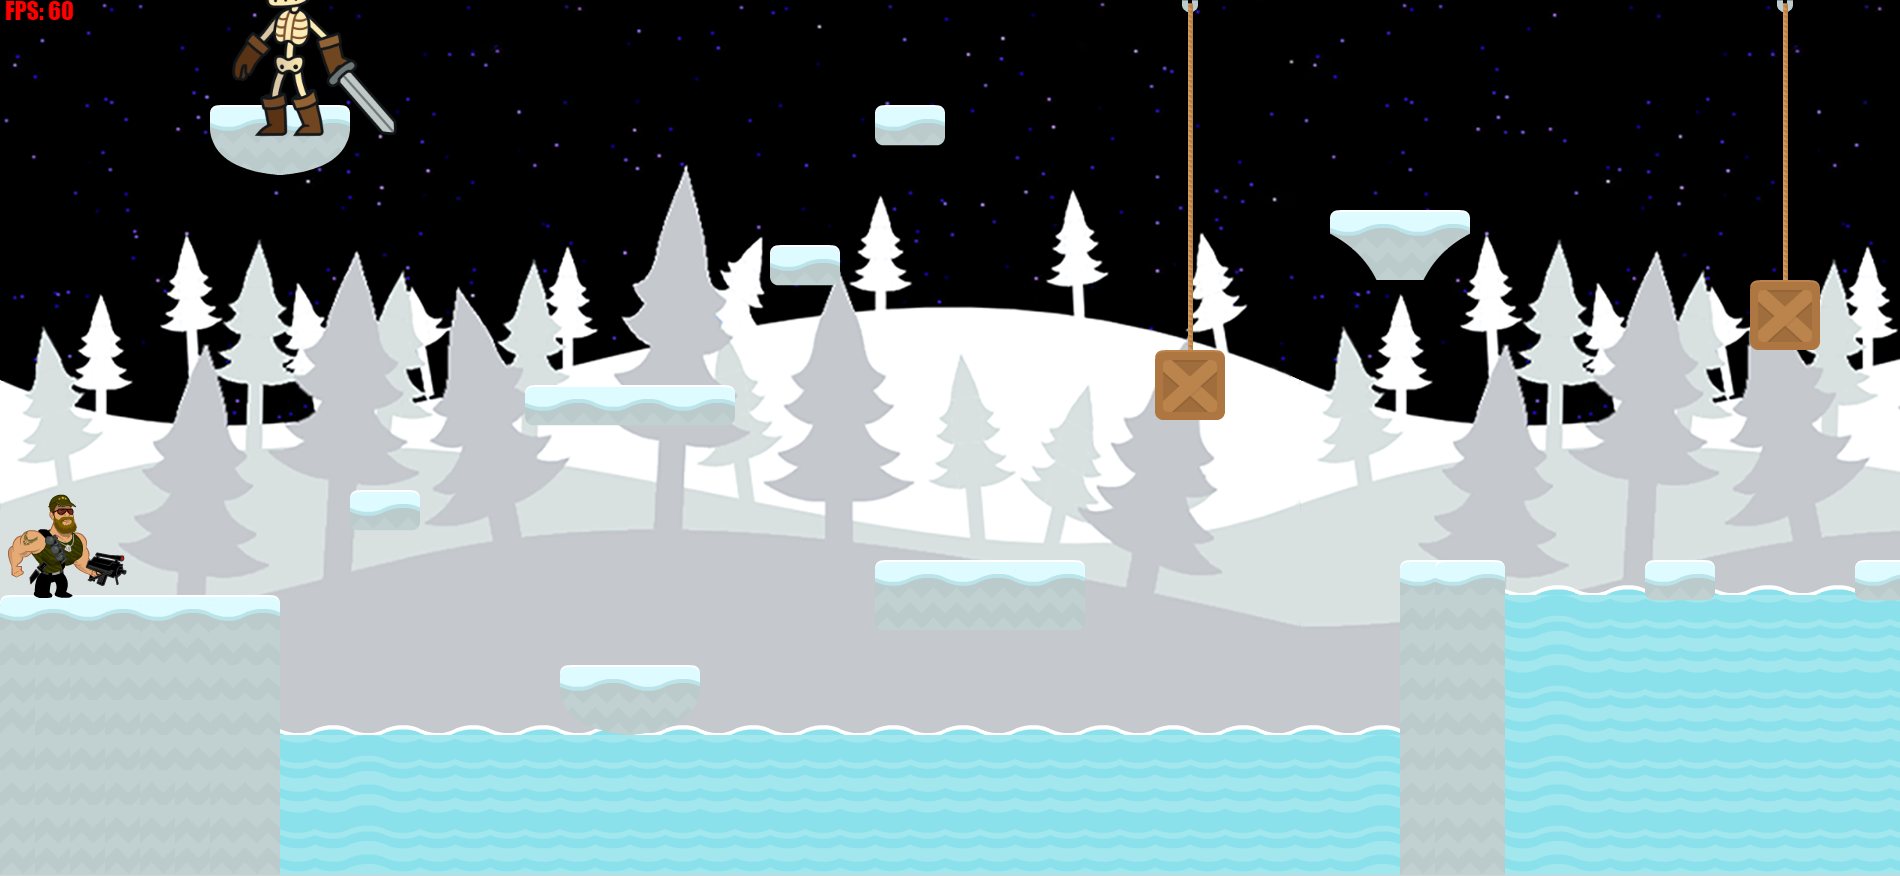
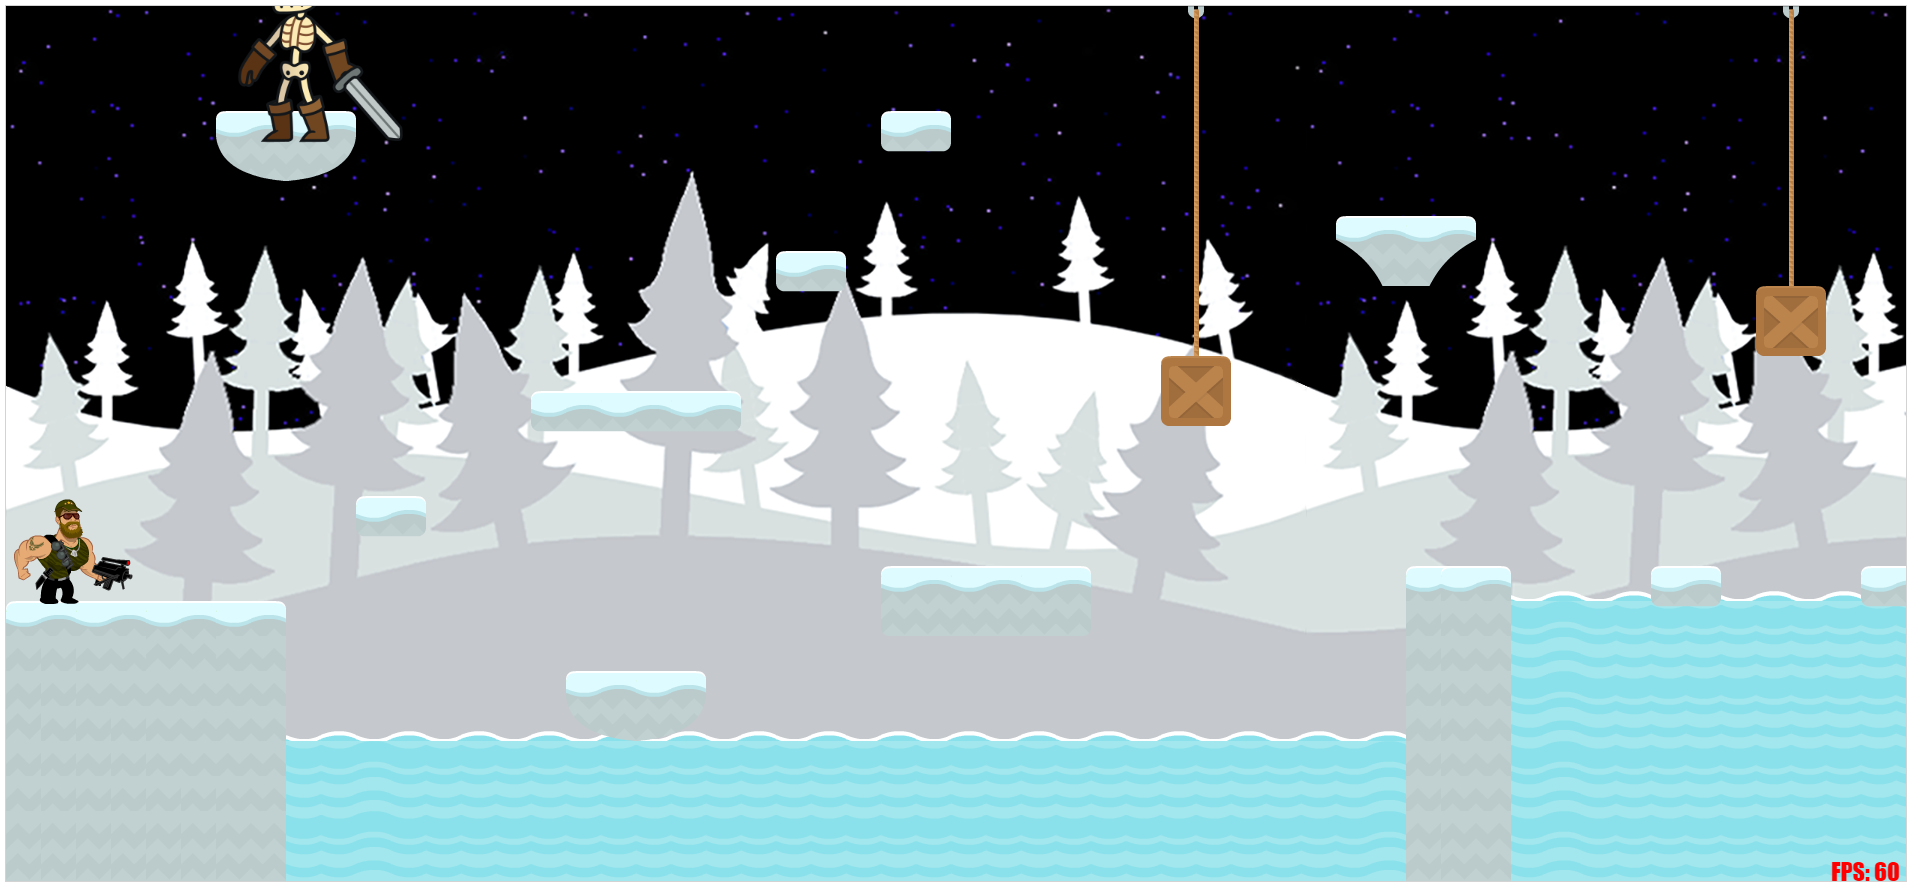
Hud
HP DONE SCORE STRATINFG

diff --git a/main.js b/main.js
@@ -51,6 +51,8 @@ var TILESET_PADDING = level1.tilesets[0].margin;
 var TILESET_SPACING = level1.tilesets[0].spacing;
 var TILESET_COUNT_X = level1.tilesets[0].columns;
 var TILESET_COUNT_Y = level1.tilesets[0].tilecount/TILESET_COUNT_X;
+
+var playerScore = 0;
 						
 var LAYER_COUNT = level1.layers.length;
 var LAYER_BACKGOUND = 0;
@@ -177,7 +179,13 @@ function run()
 		
 	context.fillStyle = "#f00";
 	context.font="24px impact";
-	context.fillText("FPS: " + fps, 5, 20, 100);
+	context.fillText("FPS: " + fps, 1825, 875, 100);
+	
+	context.fillStyle = "rgba(55, 55, 55, 0.75)"
+	context.fillStyle = "green";
+	context.font = "52px impact";
+	context.textBaseline = "top";
+	context.fillText(playerScore, 10,10);
 }
 
 var sprite;
